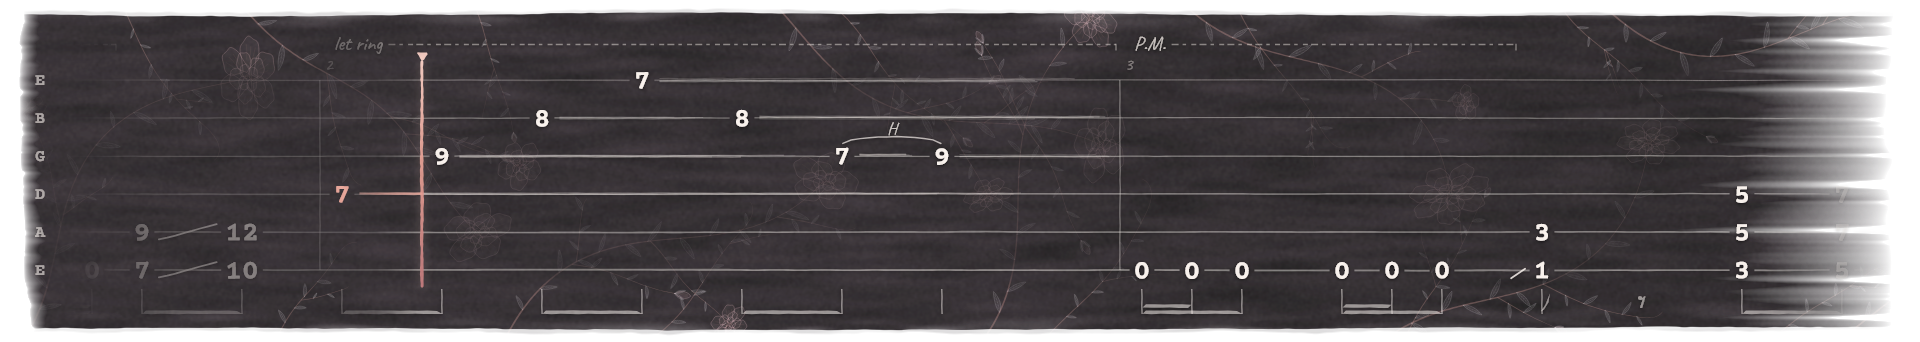
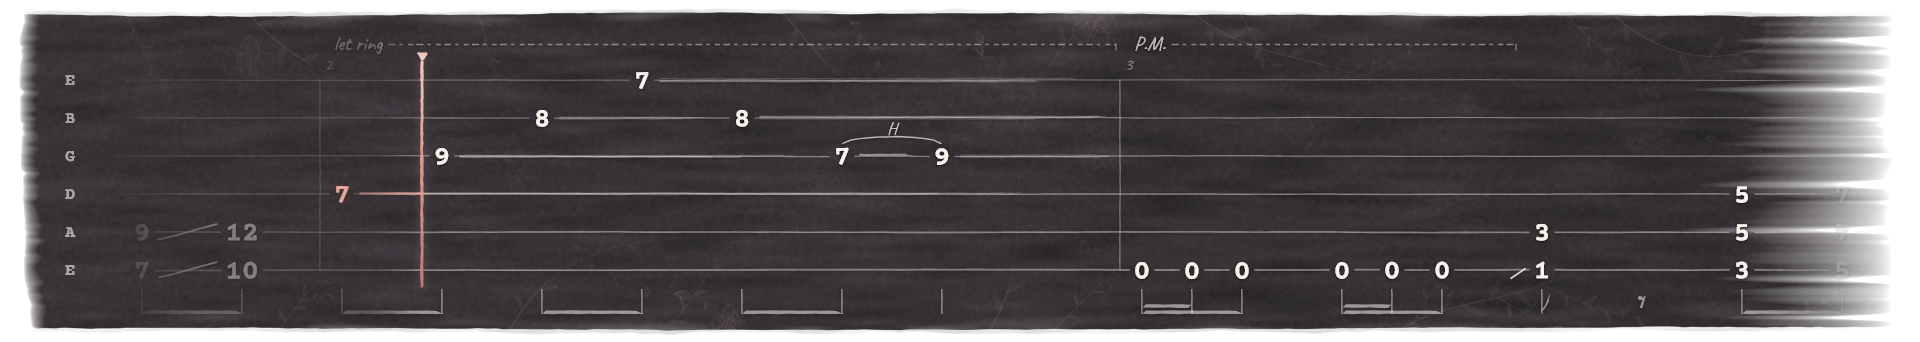
ink theme: string names further from the left edge
- Per-theme LABEL_INSET; the ink theme moves the string names ~30 px
  further in so they sit well inside the ragged brush edge
- README: document STRING_SPACING, LABEL_INSET and FLORAL_STRENGTH

diff --git a/tabscroll.py b/tabscroll.py
@@ -331,7 +331,7 @@ class Renderer:
         self.H += self.H % 2
         self.card_l, self.card_r = 12 * s, self.W - 12 * s
         self.card_t, self.card_b = 8 * s, self.H - 8 * s
-        self.lab_x = self.card_l + 28 * s
+        self.lab_x = self.card_l + self.LABEL_INSET * s
         self.P = round(self.W * playhead)
         bpm0 = sc.bars[0][3]
         self.pps = px_per_beat * s * bpm0 / 60.0           # pixels per second
@@ -359,6 +359,7 @@ class Renderer:
     # -- theme hooks (override these in a theme subclass) ------------------------
     DEFAULT_ACCENT = (255, 183, 77)
     STRING_SPACING = 34
+    LABEL_INSET = 28                        # string names, from the backdrop's left edge
 
     def _style(self, accent):
         """Colours and fonts."""
@@ -1041,6 +1042,7 @@ class InkRenderer(Renderer):
 
     DEFAULT_ACCENT = (228, 158, 146)        # rose gold
     STRING_SPACING = 38                     # room for bigger numbers
+    LABEL_INSET = 58                        # keep the string names well inside the ragged brush edge
 
     def _style(self, accent):
         s = self.s

diff --git a/README.md b/README.md
@@ -155,7 +155,9 @@ roughly 2–3× larger than studio's (a few GB per minute at 1080 width). The We
 
 Adding a theme: subclass `Renderer` in `tabscroll.py`, override the hooks you need (`_style` for colors
 and fonts, `_build_backdrop`, `pen`, `draw_live`, `draw_playhead`, `draw_hud`, `_finish`), then register
-it in `THEMES`. `InkRenderer` is a complete example.
+it in `THEMES`. `InkRenderer` is a complete example. Simple layout settings are class attributes:
+`STRING_SPACING`, `LABEL_INSET` (how far the string names sit from the left edge) and, in the ink theme,
+`FLORAL_STRENGTH` (opacity of the floral layer).
 
 ## 6. Put it in your video
 
